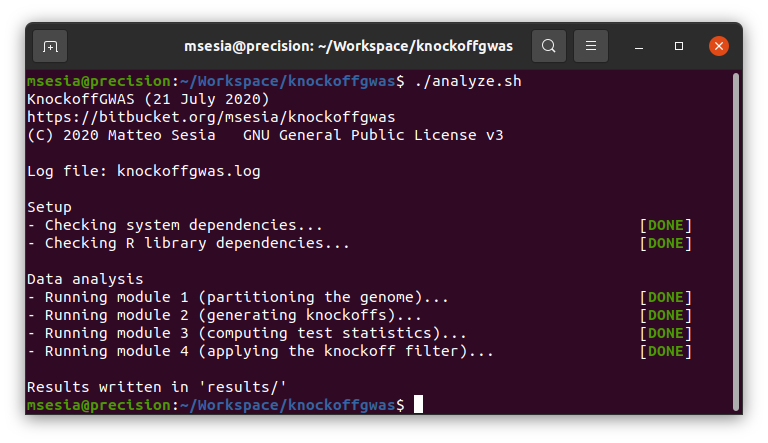
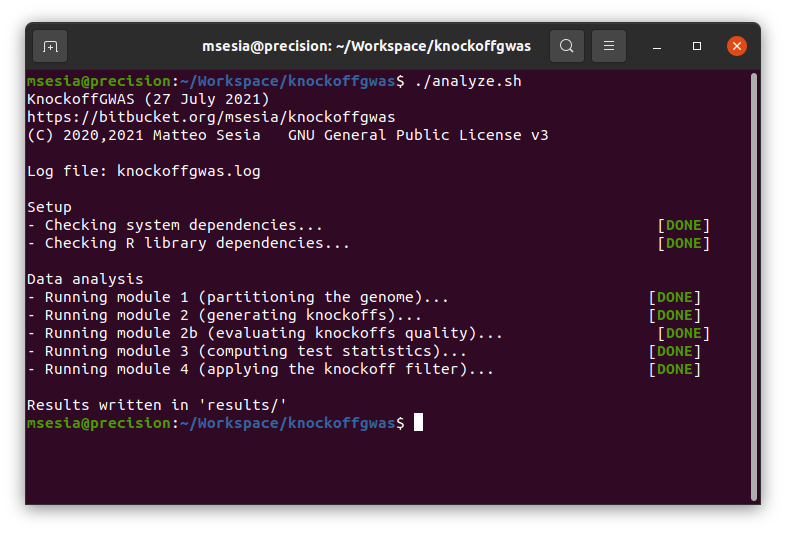
Added GOF plots

Changed region(s): [[0.0312, 0.0293, 0.9688, 0.9684], [0.8125, 0.4989, 0.9062, 0.8217], [0.8125, 0.4108, 0.9062, 0.4695]]

diff --git a/tutorial.html b/tutorial.html
@@ -315,6 +315,9 @@ $(document).ready(function () {
 <p style="text-align:center;">
 <img src="images/data.png" alt="Directory tree structure of tutorial data set"
     title="Directory tree structure of tutorial data set" width="60%" height="60%" />
+<figcaption style="text-align: center">
+<small>Directory tree structure of tutorial data set.</small>
+</figcaption>
 </p>
 <p>To run the tutorial, download the software repository and enter the corresponding main directory. Then, compile the <em>snpknock2</em> C++ program (to generate the knockoffs) by typing the following commands in your terminal:</p>
 <pre><code>cd snpknock2
@@ -325,13 +328,23 @@ cd ..</code></pre>
 <p>This will first verify whether the system dependencies (plink, R, and the snpknock2 executable compiled above), and then install any missing required R packages. Then, it will carry out an entire association analysis which should take approximately 5 minutes on a personal computer from start to finish. This analysis consists of 4 main modules, each encoded by a distinct script located within the sub-directory <code>knockoffgwas/</code>, and all automatically coordinated by <code>analyze.sh</code>. These modules organize the analysis as follows:</p>
 <ol style="list-style-type: decimal">
 <li><p><strong>Partitions.</strong> Partition the available SNPs into contiguous groups at different levels of resolution, based on the genetic distance information provided with the data and the desired resolution values (measured in cM) specified by the user (a default option is specified in <code>knockoffgwas/module_1_partition.sh</code>). The genome partitions computed by the module will be stored in the intermediate result directory <code>tmp/partitions</code>.</p></li>
-<li><p><strong>Knockoffs.</strong> Generate knockoff genotypes for all specified genome partitions. This operation is carried out by the script <code>knockoffgwas/module_2_knockoffs.sh</code>, which executes the <em>snpknock2</em> program compiled above. The output knockoffs will be stored in standard BED format within the intermediate result directory <code>tmp/knockoffs</code>, merged with a copy of the original genotypes for subsequent convenience. A separate set of BED and auxiliary files will be produced for each available chromosome.</p></li>
+<li><p><strong>Knockoffs.</strong> Generate knockoff genotypes for all specified genome partitions. This operation is carried out by the script <code>knockoffgwas/module_2_knockoffs.sh</code>, which executes the <em>snpknock2</em> program compiled above. The output knockoffs will be stored in standard BED format within the intermediate result directory <code>tmp/knockoffs</code>, merged with a copy of the original genotypes for subsequent convenience. A separate set of BED and auxiliary files will be produced for each available chromosome. The second part of this module, <code>knockoffgwas/module_2b_knockoffs_god.sh</code>, computes goodness-of-fit-diagnostics for the knockoffs corresponding to all chromosomes and resolutions. Plots summarizing the goodness-of-fit-diagnostics are stored in the directory <code>tmp/knockoffs_gof_plots/</code>. Thse goodness-of-fit-diagnostics should reflect the correct exchangeability of the knockoffs with the original genotypes; see the screenshot below for an example on the tutorial data, and the accompanying paper for more details.</p></li>
 <li><p><strong>Statistics.</strong> Compute knockoff test statistics for all groups of SNPs, separately for each specified genome partition. This operation is carried out by the script <code>knockoffgwas/module_3_statistics.sh</code>, which first merges the knockoff-augmented genotype files for all chromosomes and then converts them into a large <a href="https://privefl.github.io/bigsnpr/">file-backed matrix</a>. Finally, this script fits a sparse generalized linear regression model to predict the phenotype of interest given the knockoff-augmented data using a very <a href="https://privefl.github.io/bigstatsr/">efficient implementation of the lasso</a>, and utilizes that to compute the final knockoff test statistics, separately for each specified genome partition.</p></li>
 <li><p><strong>Filter.</strong> The last module applies the knockoff filter to the statistics computed above, producing a separate list of discoveries for each specified genome partition. This operation is carried out by the script <code>knockoffgwas/module_4_discover.sh</code>. The default FDR level is 10%, but it can be modified within this script. The final lists of discoveries will be written in the directory <code>results/</code>.</p></li>
 </ol>
 <p style="text-align:center;">
 <img src="images/analyze.png" alt="Screenshot of KnockoffGWAS analysis on tutorial data"
     title="KnockoffGWAS analysis on tutorial data" width="65%" height="65%" />
+<figcaption style="text-align: center">
+<small>Screenshot of KnockoffGWAS analysis on tutorial data.</small>
+</figcaption>
+</p>
+<p style="text-align:center;">
+<img src="images/knockoffs_chr21_res5.png" alt="Screenshot of some goodness-of-fit diagnostics for knockoffs on tutorial data"
+    title="Goodness-of-fit diagnostics for knockoffs on tutorial data." width="65%" height="65%" />
+<figcaption style="text-align: center">
+<small>Goodness-of-fit diagnostics for knockoffs on tutorial data.</small>
+</figcaption>
 </p>
 <p>The final results can be visualized interactively with the script <code>visualize.sh</code>, which will launch a <a href="https://shiny.rstudio.com/">Shiny</a> app in your browser. Some additional R packages are required by the visualization tool, and will be automatically installed if not found.</p>
 <pre><code>./visualize.sh</code></pre>
@@ -343,10 +356,16 @@ cd ..</code></pre>
 <p style="text-align:center;">
 <img src="images/view_1.png" alt="Screenshot of full-genome visualization of KnockoffGWAS discoveries on tutorial data"
     title="Full-genome visualization of KnockoffGWAS discoveries on tutorial data" width="100%" height="100%" />
+<figcaption style="text-align: center">
+<small>Full-genome visualization of KnockoffGWAS discoveries on tutorial data.</small>
+</figcaption>
 </p>
 <p style="text-align:center;">
 <img src="images/view_2.png" alt="Screenshot of single-chromosome visualization of KnockoffGWAS discoveries on tutorial data"
-    title="single-chromosome visualization of KnockoffGWAS discoveries on tutorial data" width="100%" height="100%" />
+    title="Single-chromosome visualization of KnockoffGWAS discoveries on tutorial data" width="100%" height="100%" />
+<figcaption style="text-align: center">
+<small>Single-chromosome visualization of KnockoffGWAS discoveries on tutorial data.</small>
+</figcaption>
 </p>
 
 
